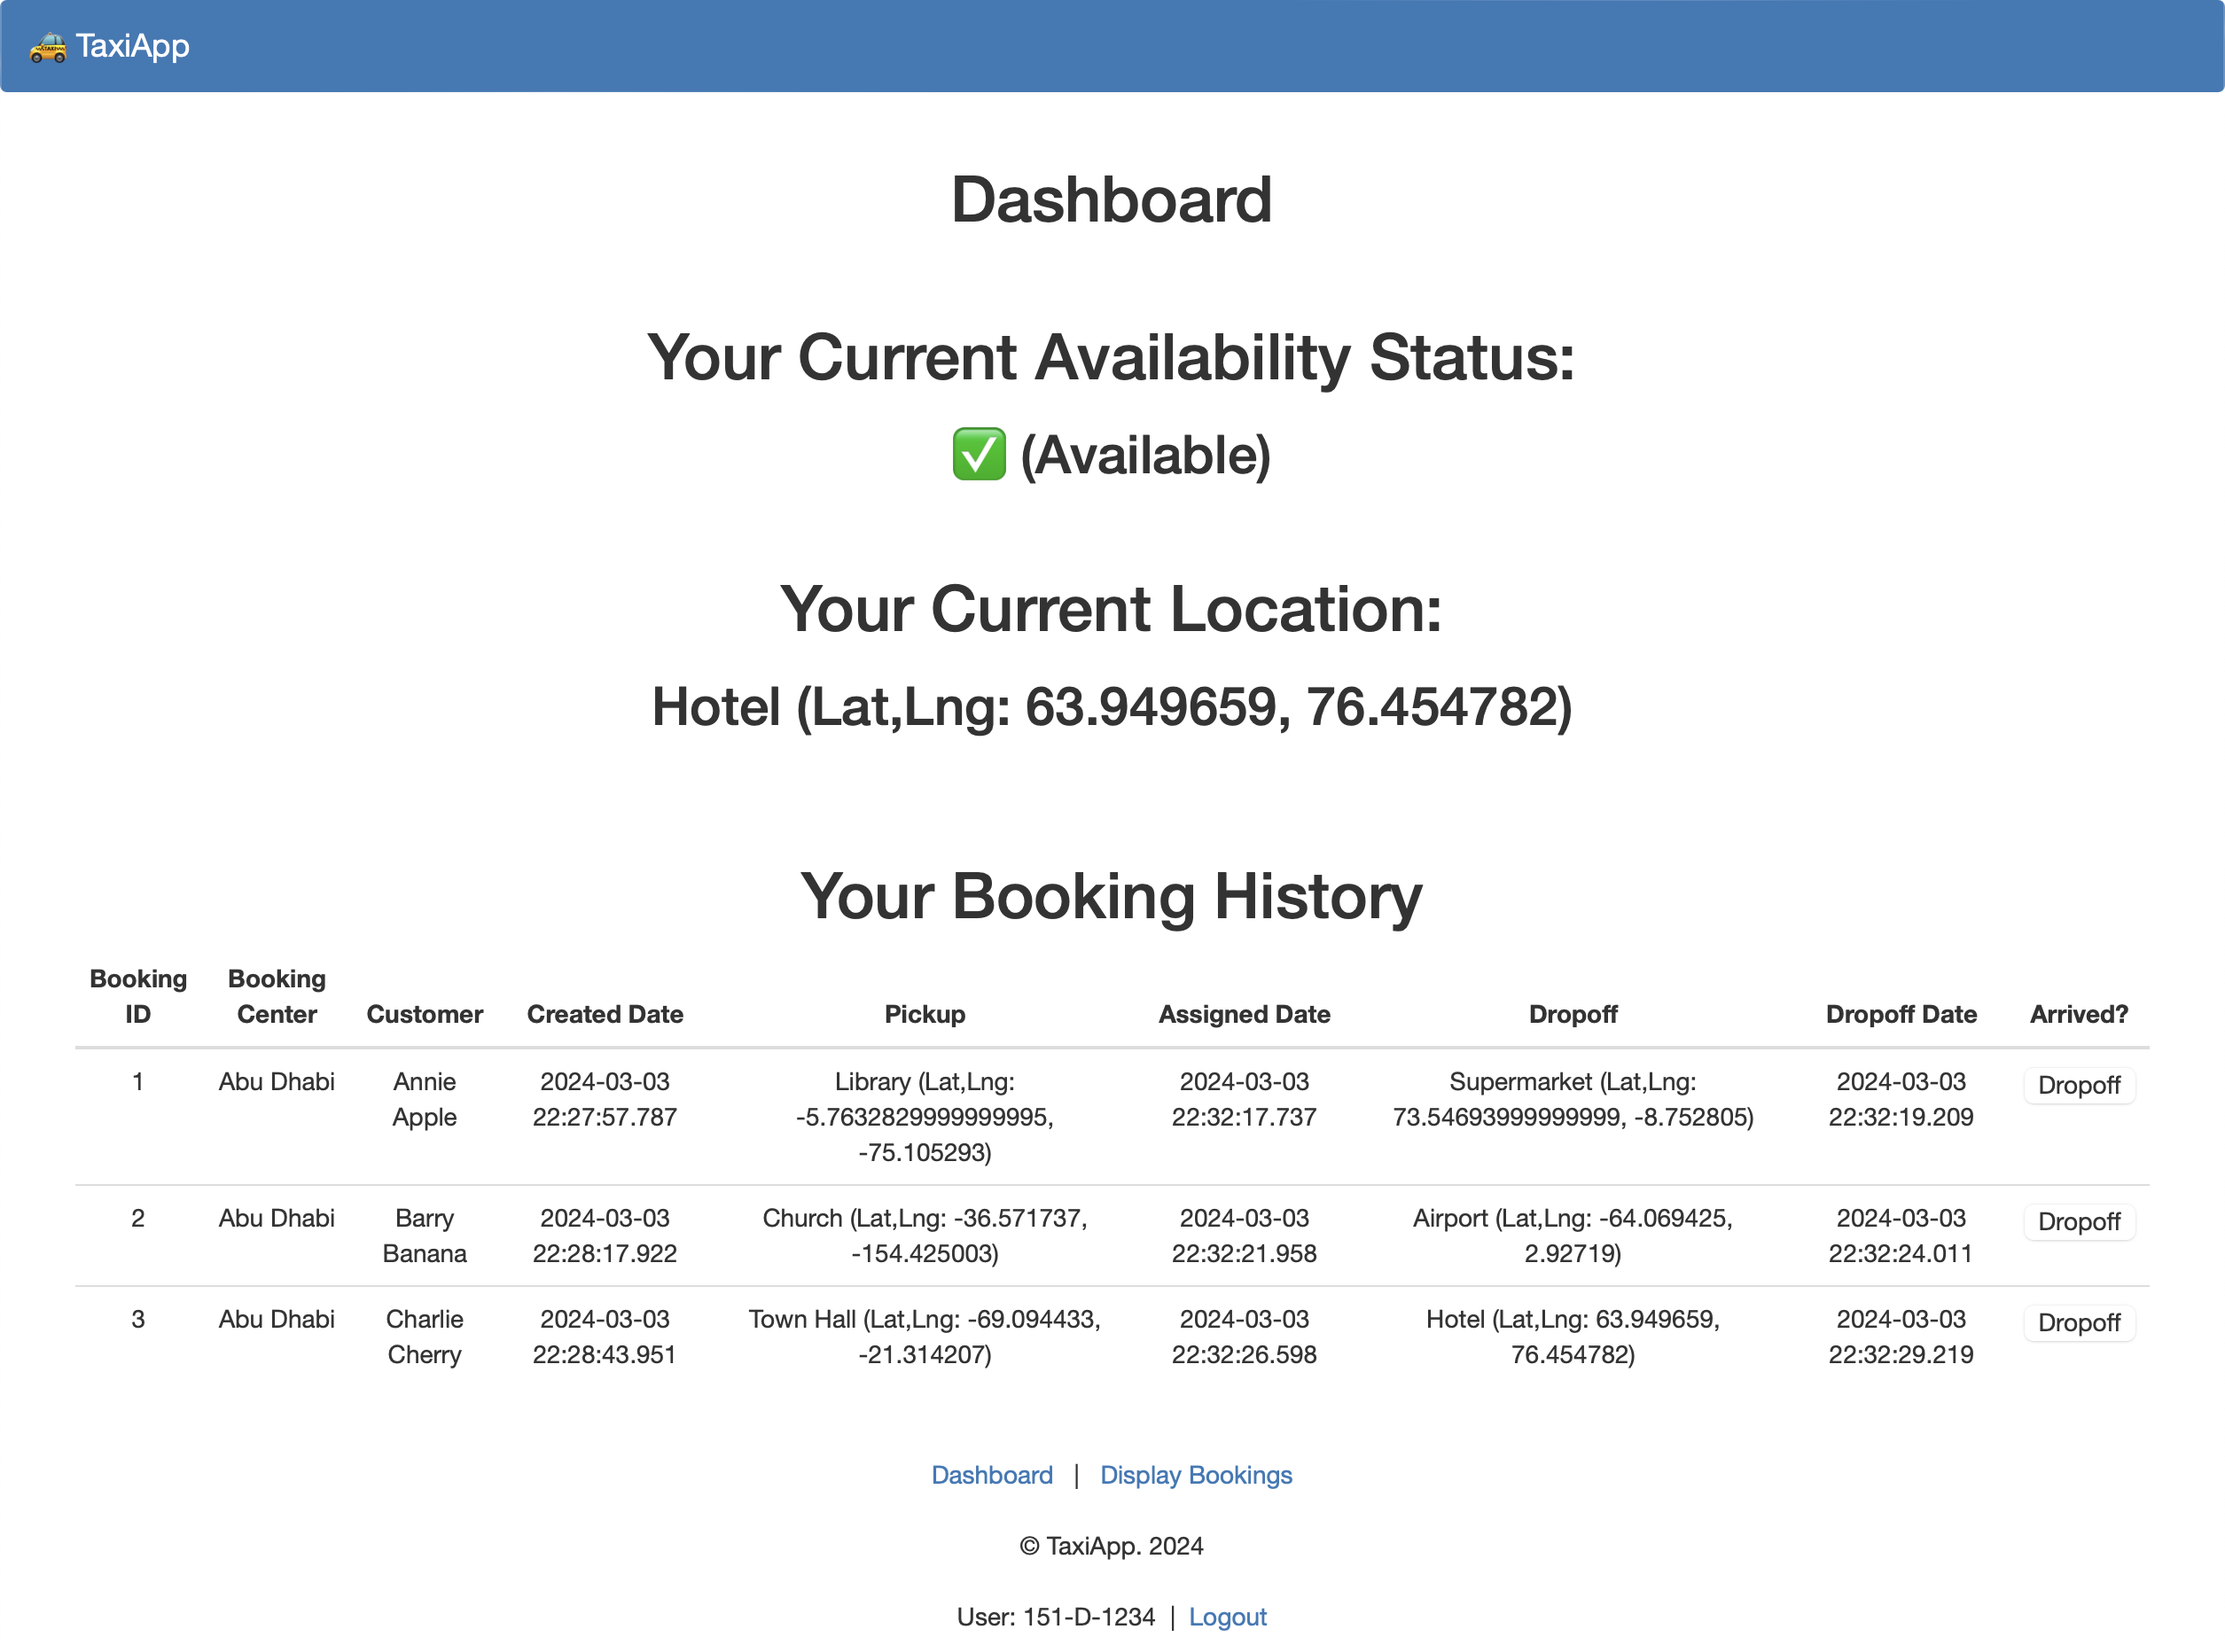
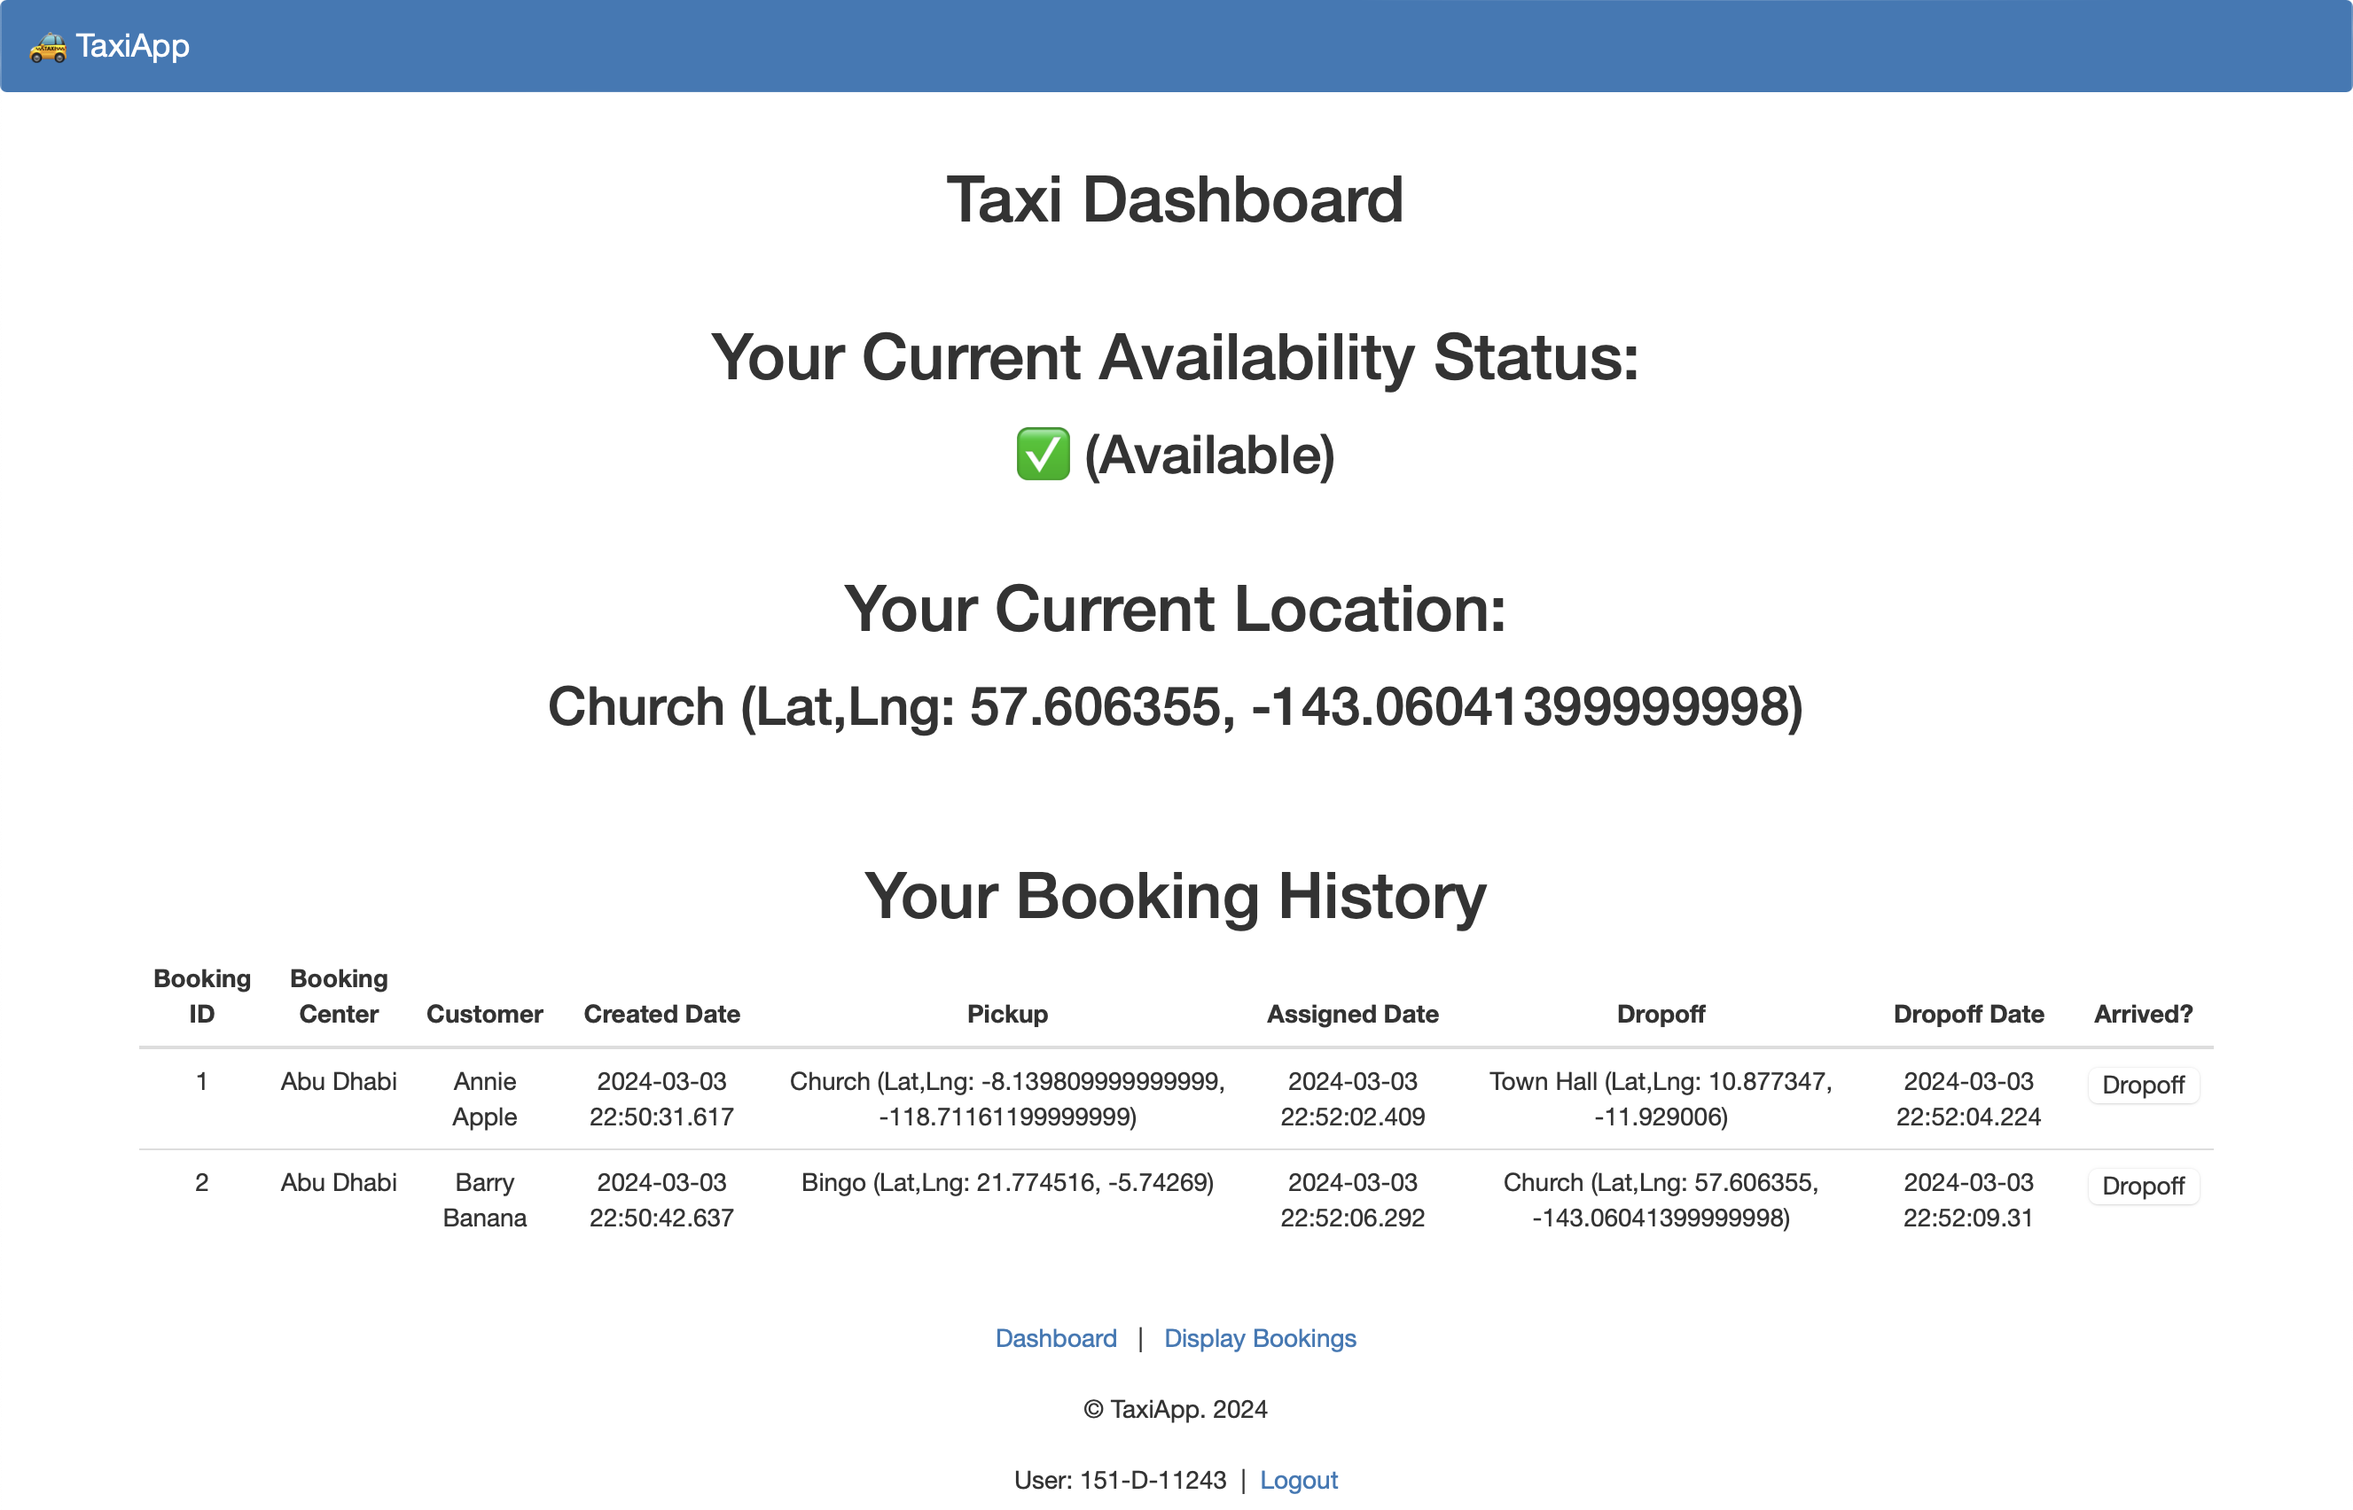
updating readme screenshots

diff --git a/src/main/resources/templates/landing.html b/src/main/resources/templates/landing.html
@@ -13,8 +13,8 @@
 
         <div class="container">
             <div class="row">
-                <h1 class="text-center">Dashboard</h1>
                 <div sec:authorize="hasRole('USER')">
+                    <h1 class="text-center">Taxi Dashboard</h1>
                     <br>
                     <h1>Your Current Availability Status: </h1><h2> <span th:text="${taxi != null && taxi.isAvailable} ? '&#x2705; (Available)' : '&#x274C; (Booked)'" /> </h2>
                     <br>
@@ -63,6 +63,7 @@
                 </div>
 
                 <div sec:authorize="hasRole('ADMIN')">
+                    <h1 class="text-center">Admin Dashboard</h1>
                     <h1>Bookings Statistics</h1>
 
                     <div th:if="!${#lists.isEmpty(taxis)}">
